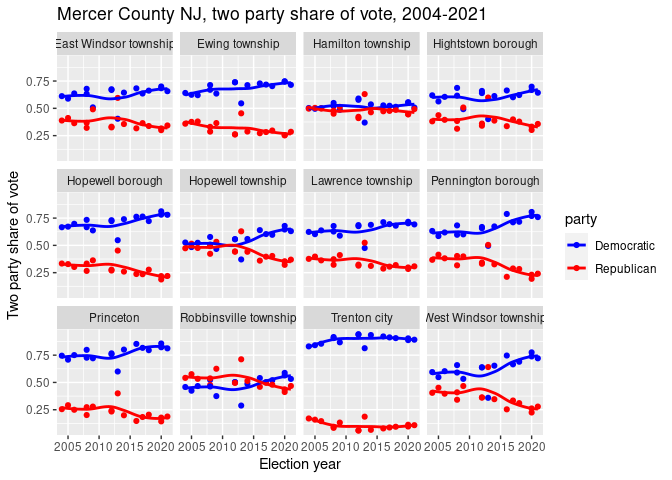
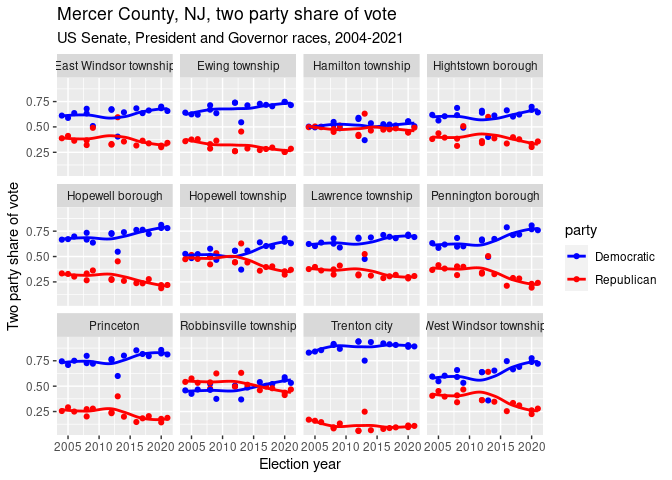
Updated title on mercer county graph.

diff --git a/README.md b/README.md
@@ -1249,7 +1249,8 @@ tpsov |>
   facet_wrap("municipality") +
   ylab("Two party share of vote") +
   xlab("Election year") +
-  labs(title = "Mercer County NJ, two party share of vote, 2004-2021")
+  labs(title = "Mercer County, NJ, two party share of vote",
+       subtitle = "US Senate, President and Governor races, 2004-2021")
 ```
 
 <img src="man/figures/README-unnamed-chunk-16-1.png" width="100%" />
